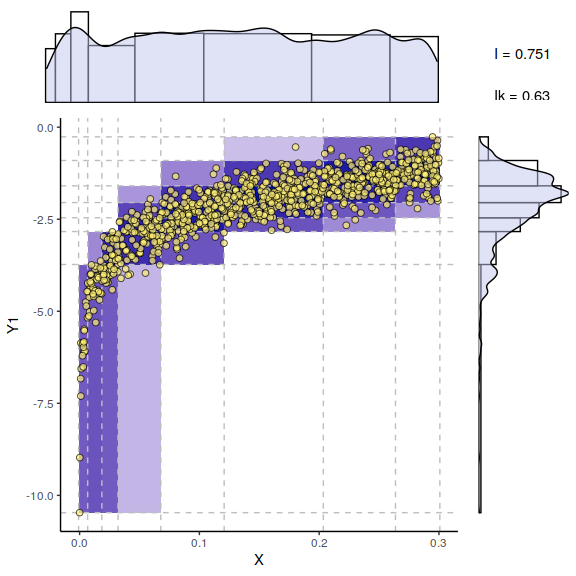
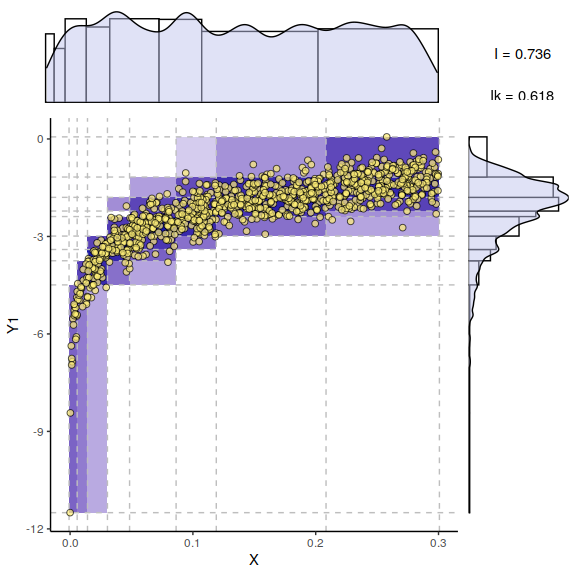
Fixed some texts

diff --git a/MI_benchmarks/FigS3_interaction_dependent_discretization/README.md b/MI_benchmarks/FigS3_interaction_dependent_discretization/README.md
@@ -9,11 +9,11 @@ sharing the same sampling of ![X](https://latex.codecogs.com/png.latex?X
 "X") taken from a uniform distribution on
 ![\[0, 0.3\]](https://latex.codecogs.com/png.latex?%5B0%2C%200.3%5D
 "[0, 0.3]"), but with different dependences for
-![Y](https://latex.codecogs.com/png.latex?Y "Y"). {}
+![Y](https://latex.codecogs.com/png.latex?Y "Y"). (A)
 ![Y](https://latex.codecogs.com/png.latex?Y "Y") is defined as
 ![\\log(X) +
 \\epsilon\_1](https://latex.codecogs.com/png.latex?%5Clog%28X%29%20%2B%20%5Cepsilon_1
-"\\log(X) + \\epsilon_1"), and {}
+"\\log(X) + \\epsilon_1"), and (B)
 ![Y](https://latex.codecogs.com/png.latex?Y "Y") is defined as ![X^5 +
 \\epsilon\_2](https://latex.codecogs.com/png.latex?X%5E5%20%2B%20%5Cepsilon_2
 "X^5 + \\epsilon_2"), where
@@ -28,11 +28,11 @@ informations of both examples are comparable,
 This example shows that the optimum partition for
 ![X](https://latex.codecogs.com/png.latex?X "X") depends on its specific
 relation with ![Y](https://latex.codecogs.com/png.latex?Y "Y") and needs
-to be discretized with finer partitions in {} at low
+to be discretized with finer partitions in (A) at low
 ![X](https://latex.codecogs.com/png.latex?X "X") values for which
 ![Y\\simeq \\log
 X](https://latex.codecogs.com/png.latex?Y%5Csimeq%20%5Clog%20X
-"Y\\simeq \\log X") varies the most and in {} at higher
+"Y\\simeq \\log X") varies the most and in (B) at higher
 ![X](https://latex.codecogs.com/png.latex?X "X") values for ![Y\\simeq
 X^5](https://latex.codecogs.com/png.latex?Y%5Csimeq%20X%5E5
 "Y\\simeq X^5").
@@ -50,7 +50,7 @@ miic::discretizeMutual(X, Y1)$infok
 
 ![](FigS3_files/figure-gfm/unnamed-chunk-1-1.png)<!-- -->
 
-    ## [1] 0.63026
+    ## [1] 0.61778
 
 ``` r
 Y2 = X**5 + noise/1900
@@ -59,4 +59,4 @@ miic::discretizeMutual(X, Y2)$infok
 
 ![](FigS3_files/figure-gfm/unnamed-chunk-1-2.png)<!-- -->
 
-    ## [1] 0.66306
+    ## [1] 0.61469
